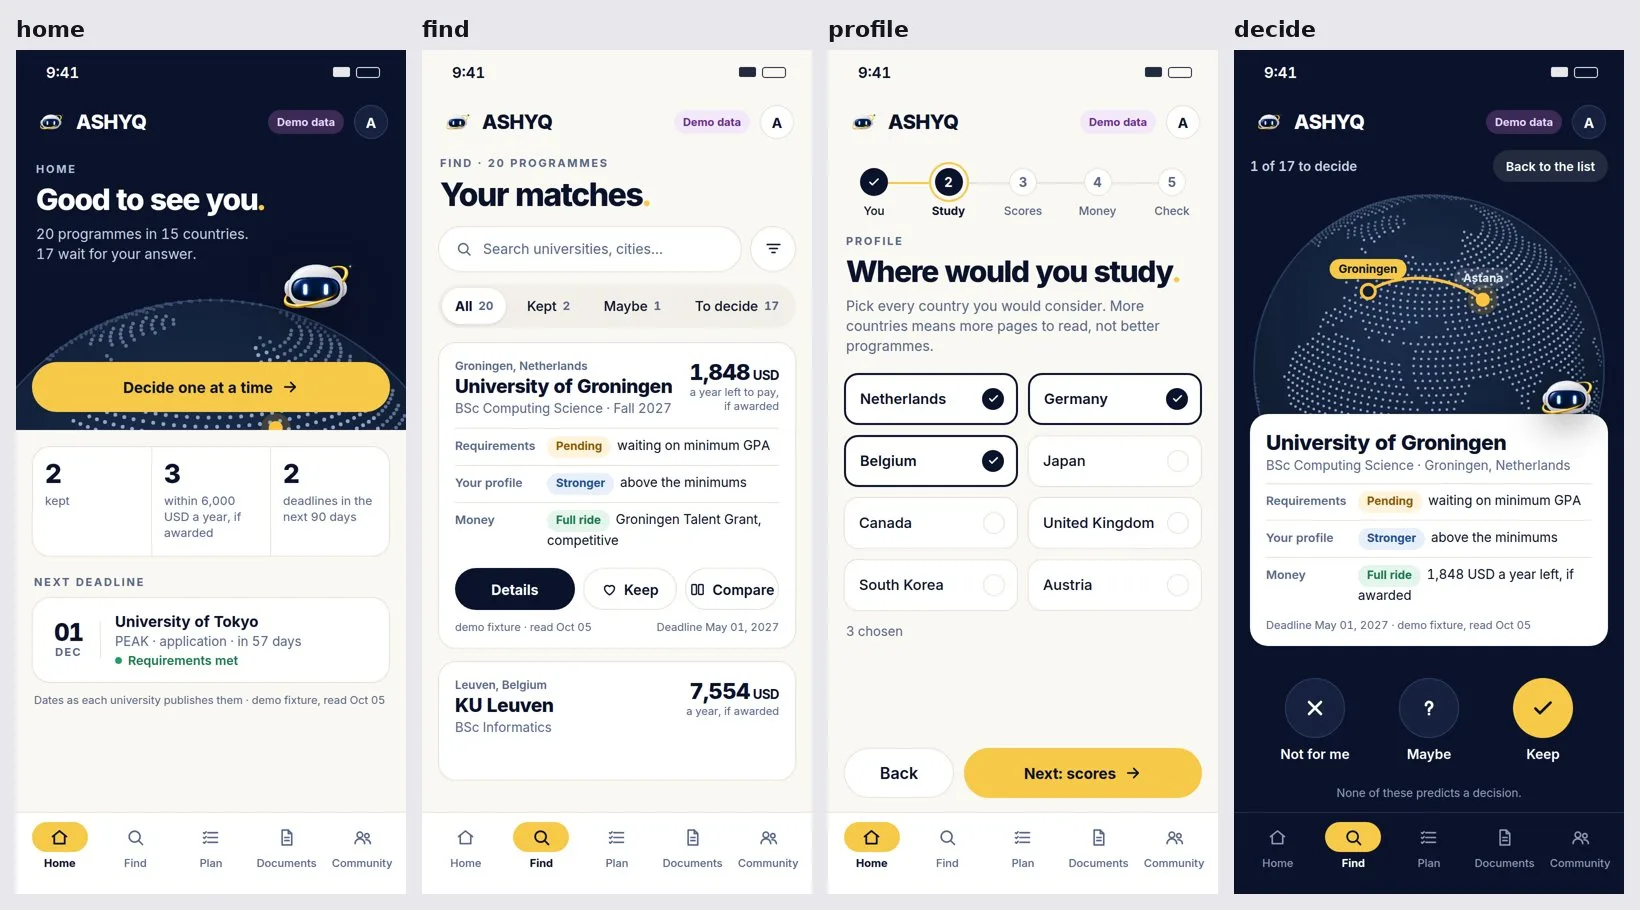
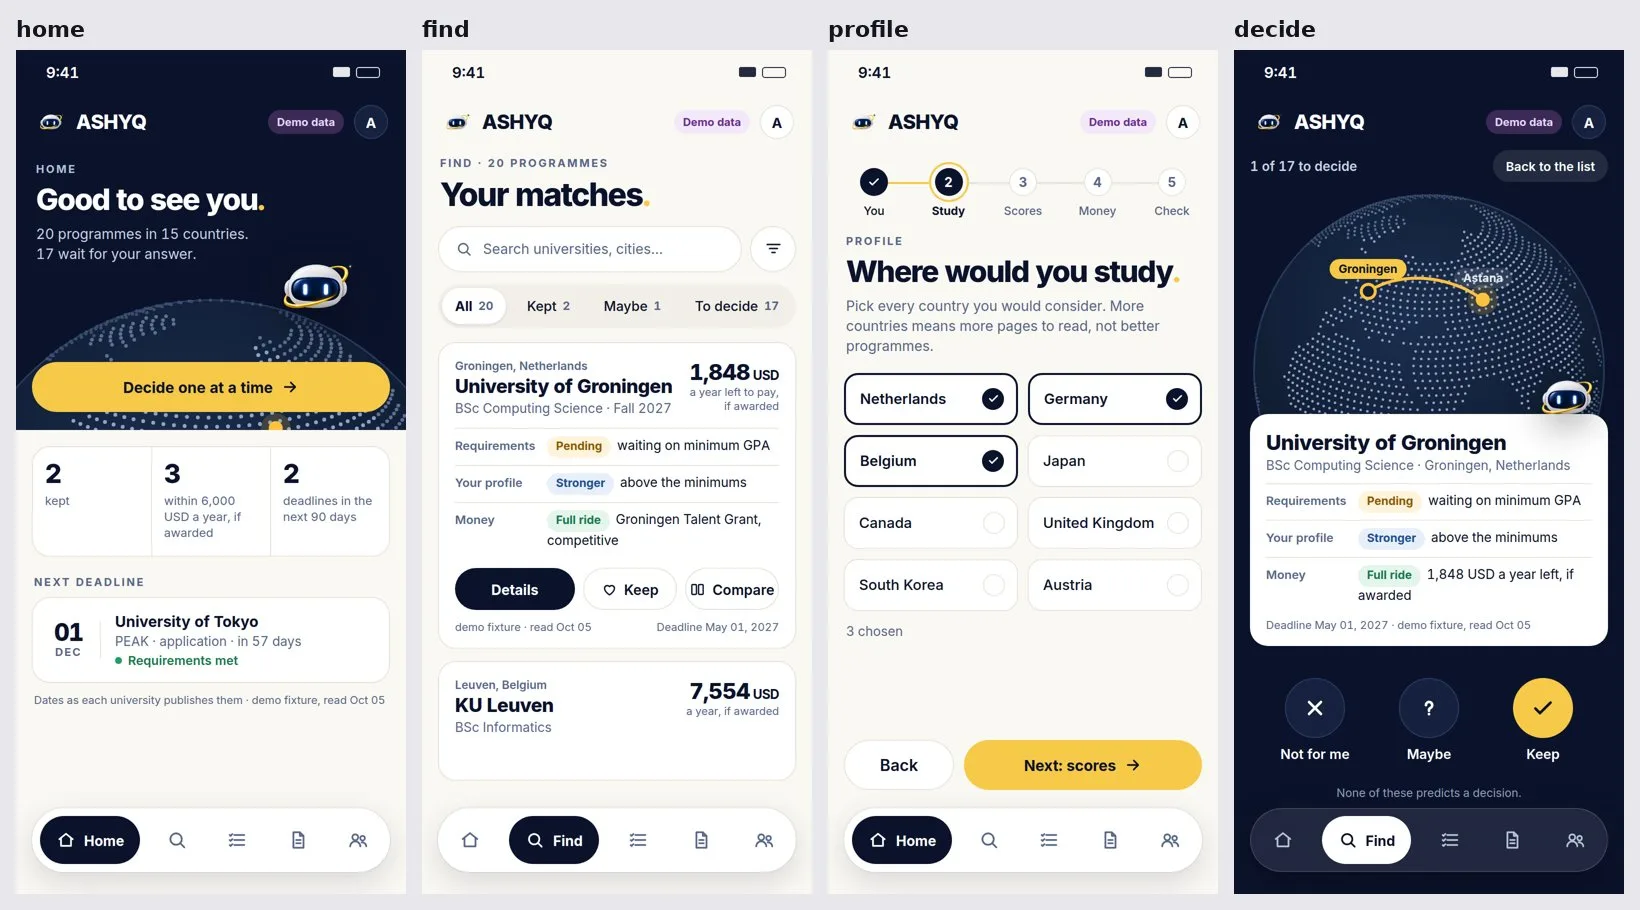
docs: concept Y tab bar - floating capsule (owner's pick A)
Agent: claude-opus-5
Claude-Session: https://claude.ai/code/session_017UnQgW6GqmwjqNXqjhaJxL

Changed region(s): [[0.2799, 0.8, 0.9951, 0.9846], [0.0, 0.8923, 0.2488, 0.9846], [0.5287, 0.8308, 0.5598, 0.8615]]

diff --git a/docs/design/redesign-concepts.md b/docs/design/redesign-concepts.md
@@ -1593,3 +1593,11 @@ Y «Орбита» replaces V/W/X with one system:
 - One family (Inter, which main already ships), one radius (18), one border colour.
 
 Image: `concepts/concept-Y.webp`.
+
+**Tab bar (owner, 2026-10-05: "мне не нравится нижняя плашка меню").** Four variants after 21st.dev's
+[tab bars](https://21st.dev/community/components/s/tab-bar) and [docks](https://21st.dev/community/components/s/dock):
+A white floating capsule, B navy capsule, C full-width bar with a gold "lamp", D capsule with every label
+(`concepts/concept-Y-tabbars.webp`). The owner chose **A**. Review fix I87: on night screens the white
+capsule was a glaring slab, so night uses a glass capsule (9 % white, blur) with a white active pill; day
+keeps the white capsule with a navy pill. Inactive tabs are icons only, so the build gives each an
+accessible name and a one-time hint on first visit.
